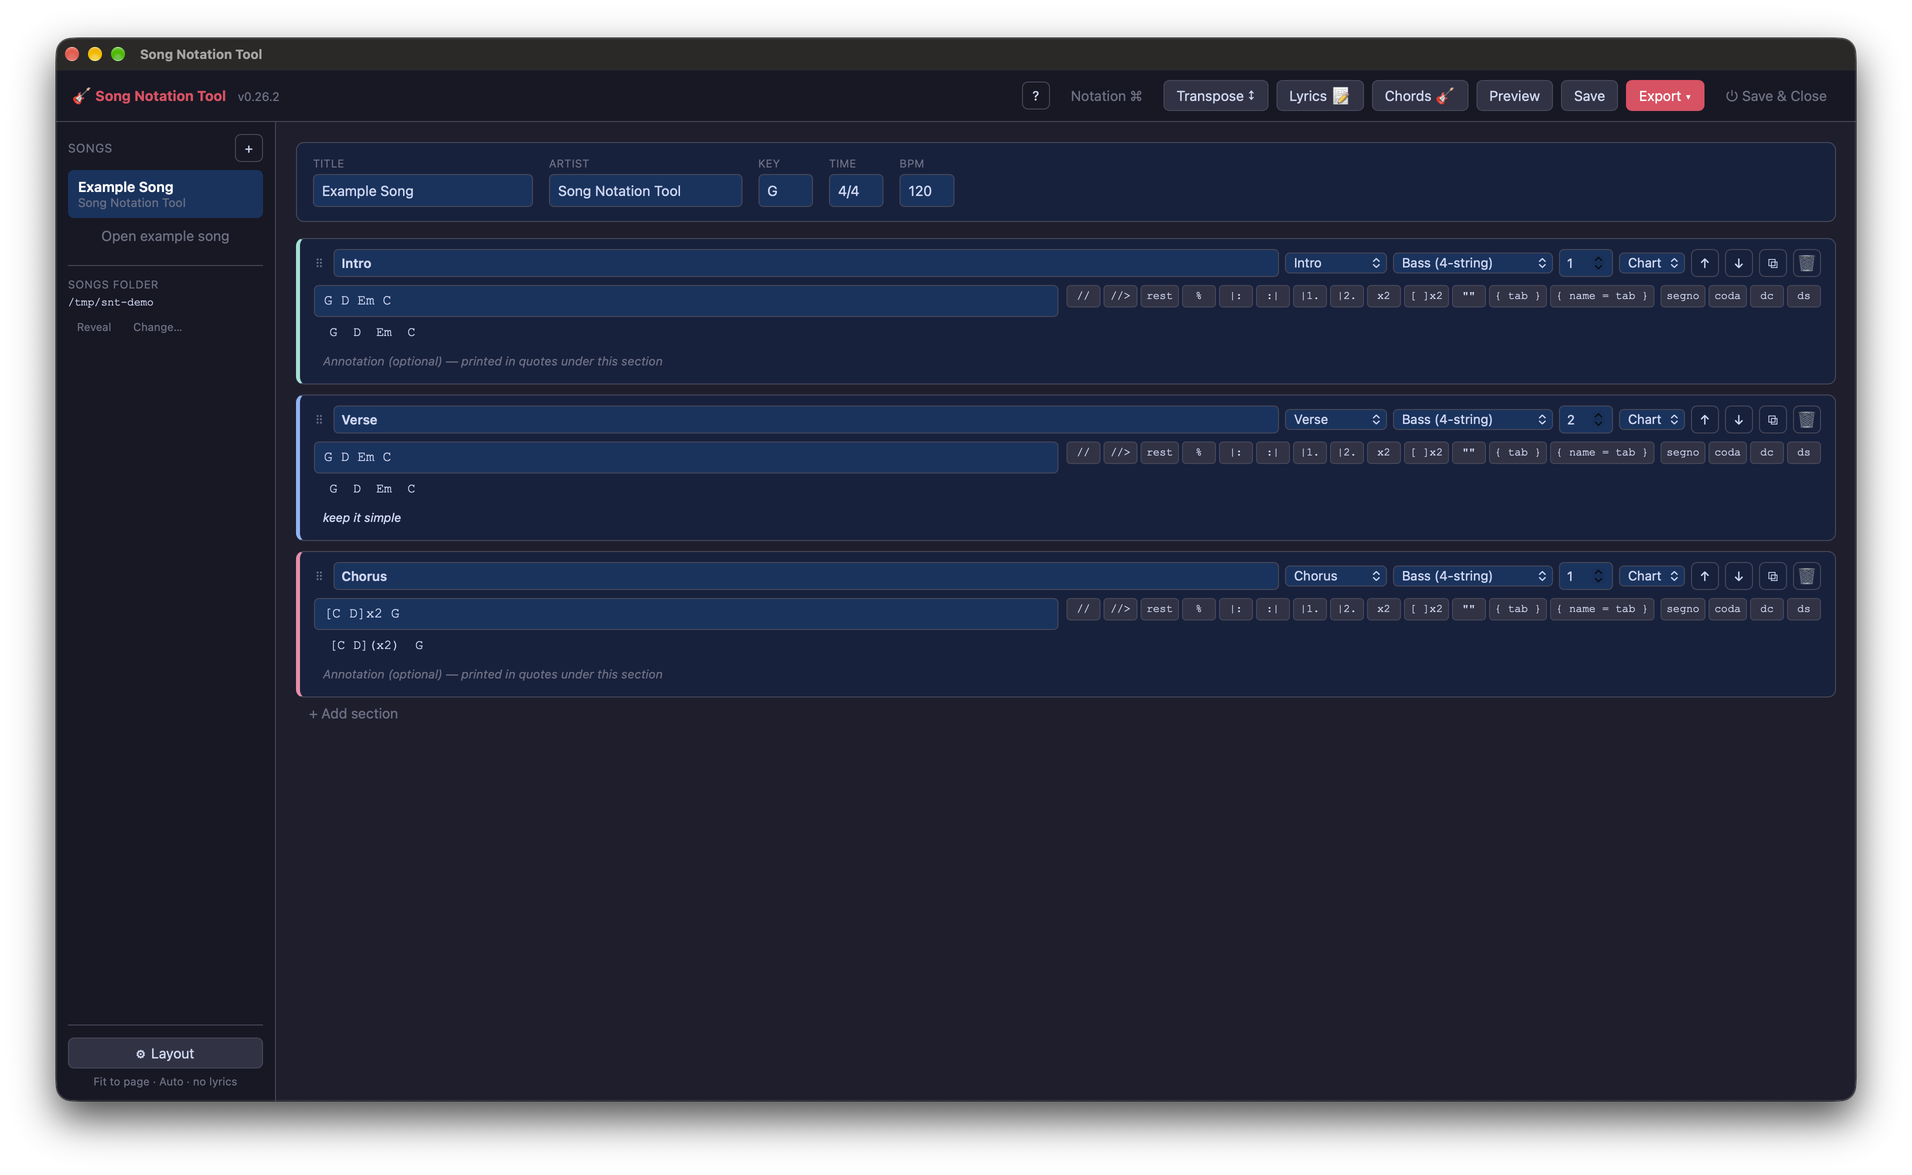
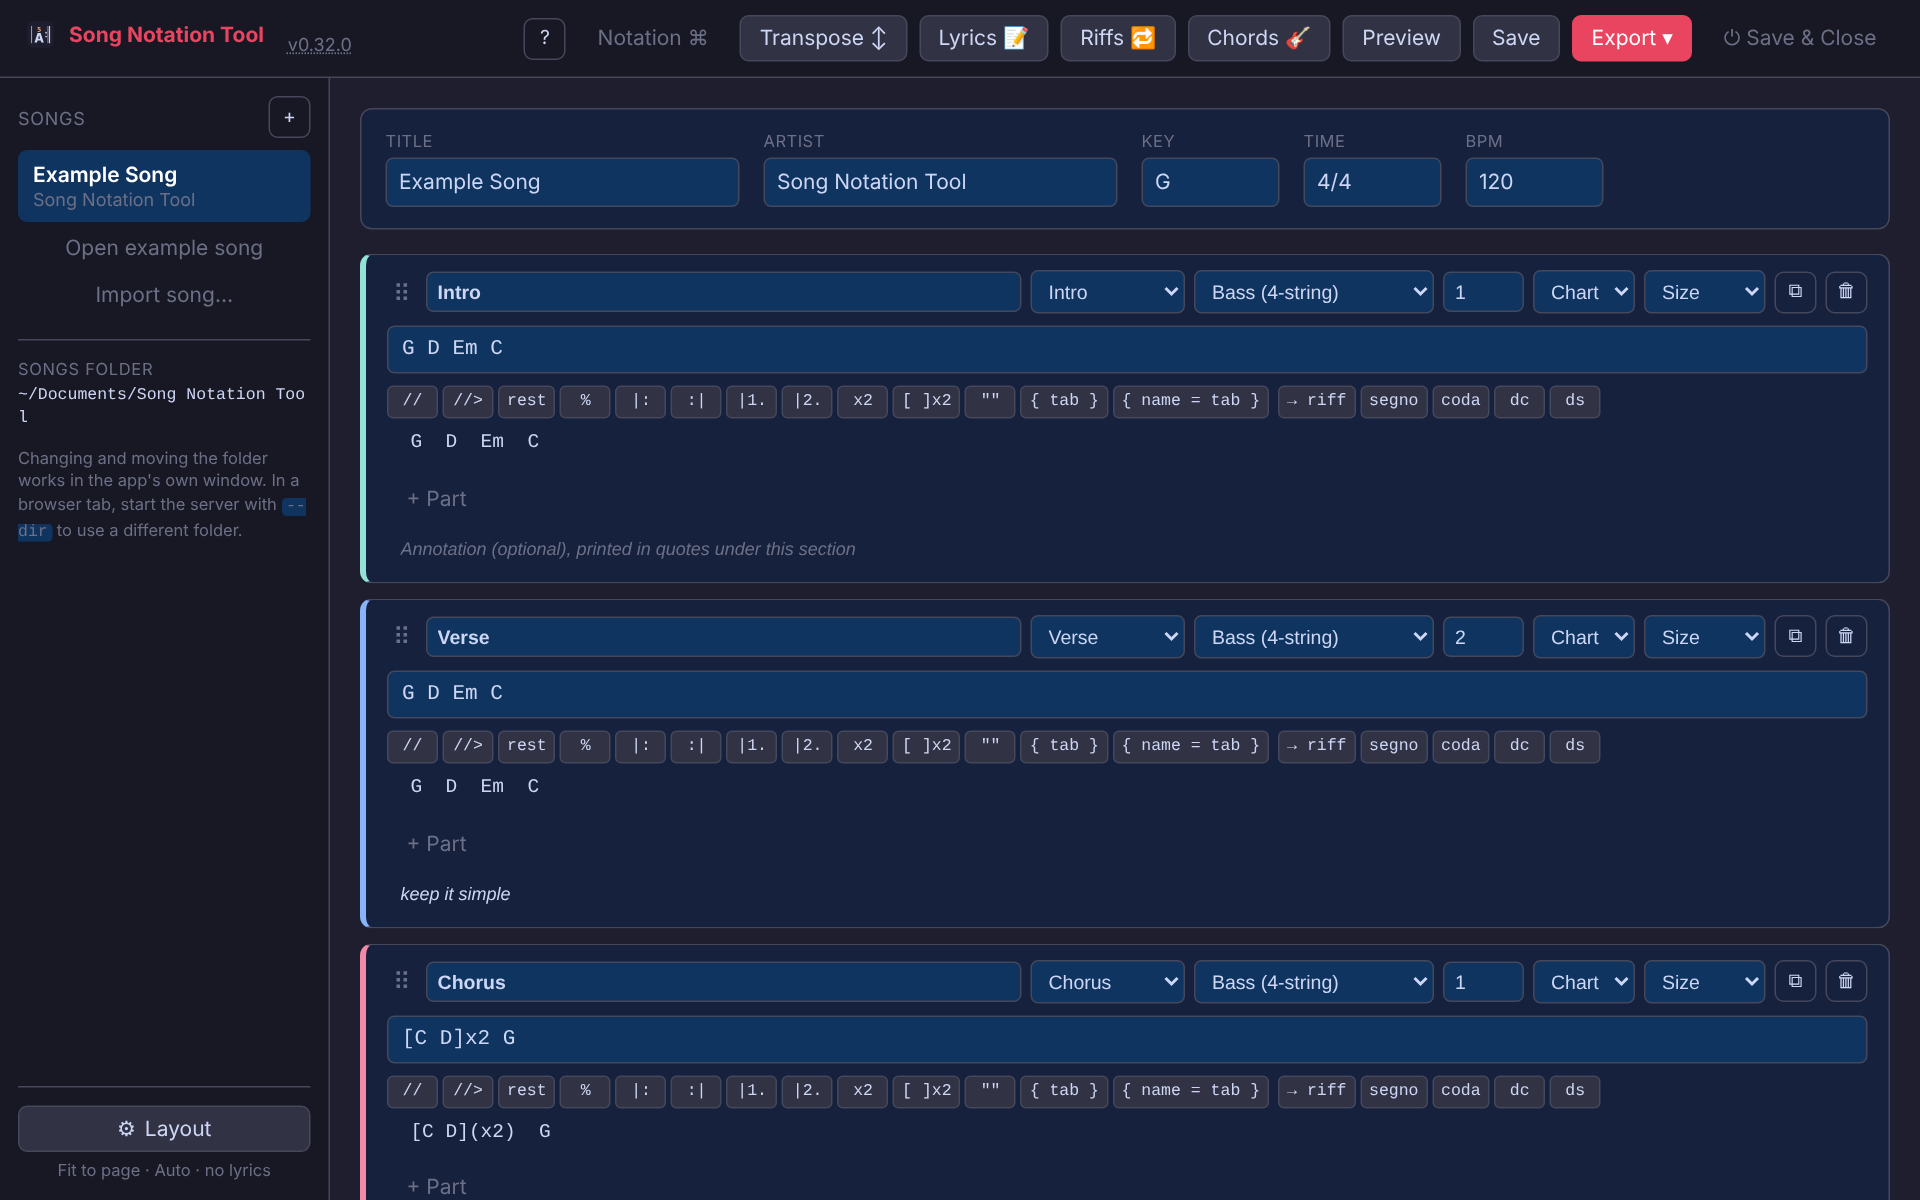
docs: screenshots for v0.32.0
All ten README pictures retaken with tools/shots.py, two of them new: the Copy to list and a section halfway through a drag.

Claude-Session: https://claude.ai/code/session_01C97HwmFBFNRj9cX7Fisfgq

diff --git a/README.md b/README.md
@@ -172,13 +172,14 @@ Getting around
 ## Screenshots
 
 The editor: songs on the left, one card per section. Type the chart line
-and the rendered chart appears under it. The buttons beside each line
+and the rendered chart appears under it. The buttons under each line
 insert notation at the cursor.
 
 ![The editor, with the example song open](screenshots/editor.png)
 
 <table>
 <tr><td width="50%" valign="top"><a href="screenshots/start-here.png"><img src="screenshots/start-here.png" alt="Start here"></a><br><b>Start here</b>: a new or returning user sees New song and Open example instead of an empty grid.</td><td width="50%" valign="top"><a href="screenshots/layout-panel.png"><img src="screenshots/layout-panel.png" alt="⚙ Layout"></a><br><b>⚙ Layout</b>: every print setting in one panel at the bottom left (size, columns, colour, section names, lyrics, licks, chord shapes).</td></tr>
+<tr><td width="50%" valign="top"><a href="screenshots/section-copy.png"><img src="screenshots/section-copy.png" alt="Copy to"></a><br><b>⧉ Copy to…</b>: pick where the copy of a section goes. The copy is a reference, so it plays whatever the original holds.</td><td width="50%" valign="top"><a href="screenshots/section-drag.png"><img src="screenshots/section-drag.png" alt="Moving a section"></a><br><b>Moving a section</b>: drag it by its ⠿ handle. While you drag, every card folds down to its name, so the whole song fits on screen.</td></tr>
 <tr><td width="50%" valign="top"><a href="screenshots/lyrics-dialog.png"><img src="screenshots/lyrics-dialog.png" alt="Lyrics"></a><br><b>Lyrics</b>: paste or import the words, drag a section's chip into the sheet where its words begin, then <b>Split by markers</b>.</td><td width="50%" valign="top"><a href="screenshots/chord-shapes.png"><img src="screenshots/chord-shapes.png" alt="Chord shapes"></a><br><b>Chord shapes</b>: voicings typed as <code>x32010</code> and checked against the chords the chart plays. <b>+ From chart</b> adds the missing ones.</td></tr>
 <tr><td width="50%" valign="top"><a href="screenshots/notation-reference.png"><img src="screenshots/notation-reference.png" alt="Notation reference"></a><br><b>Notation reference</b>: everything you can type on a chart line, with examples checked against the real parser.</td><td width="50%" valign="top"><a href="screenshots/help-strip.png"><img src="screenshots/help-strip.png" alt="How this works"></a><br><b>How this works</b>: the ideas behind the chart line, one line each.</td></tr>
 <tr><td width="50%" valign="top"><a href="screenshots/export-menu.png"><img src="screenshots/export-menu.png" alt="Export"></a><br><b>Export</b>: TXT, PDF in portrait or landscape, or the system print dialog.</td><td width="50%"></td></tr>

diff --git a/WORKPLAN.md b/WORKPLAN.md
@@ -17,7 +17,9 @@ and git hold the history.
   browser and the native window. Not yet merged, tagged or pushed. The
   drag and the picker were tried in Chromium with Playwright; the native
   window on the Mac is giopas's check (below). Proposed release title:
-  `v0.32.0 (Drag and copy sections)`.
+  `v0.32.0 (Drag and copy sections)`. The screenshots are retaken with
+  the new `tools/shots.py` (in Chromium on Linux; a run on the Mac will
+  show small font differences the first time).
 - Released: v0.31.2, tagged on 13 October 2026: the floor sheet on one
   page. v0.31.0 did not build on Windows (a test of
   `tools/ground_truth.py` deleted read-only git files), fixed in v0.31.1.
@@ -32,7 +34,7 @@ and git hold the history.
 - Every release from v0.26.3 on has its GitHub release.
 - **Update and restart** is confirmed on the Mac (v0.29.0 to v0.29.1, on
   10 October).
-- Test suite: 521 tests, all passing (`python3 -m pytest -q`).
+- Test suite: 523 tests, all passing (`python3 -m pytest -q`).
 
 ## What is left
 
@@ -153,6 +155,7 @@ and readable on stage without the handwritten sheet.
 | 13 Oct 2026 | A floor sheet: Size "Floor" prints the largest type that fits on one page (changed from two the same day), portrait or landscape, whichever is bigger; tab at about half size; a slim title (title, artist, key) and small section names. Each section can also be Smaller or Larger than the song. (giopas, 13 October.) |
 | 13 Oct 2026 | Floor may use two columns when a long song gets clearly bigger type that way; a short song keeps one column across the full width. Tab never below 75%. (Proposed by Claude while building it; giopas to confirm.) |
 | 8 Nov 2026 | Sections move by dragging their ⠿ handle (arrow keys on the handle from the keyboard); the ↑ ↓ buttons are gone. ⧉ asks where the copy goes and the copy stays a reference. Browser and native window only; the Tkinter app keeps its own drag and Ctrl/Cmd+D. (giopas, 8 November.) |
+| 8 Nov 2026 | The README screenshots are retaken before every release with `tools/shots.py` (borrowed from Swiss Knife), and the pictures are committed with the release. (giopas, 8 November.) |
 | 8 Oct 2026 | Claude has no role inside the app. It builds and checks the code only. |
 | 8 Oct 2026 | Test data uses invented band, song and lyric names. The author's own songs stay out of the repository. |
 

diff --git a/CHANGELOG.md b/CHANGELOG.md
@@ -29,6 +29,18 @@ a section where you want it, and a copy asks where it should go.
   so Enter does what the button used to do. Escape, Cancel or a click
   outside closes it. The copy is still a reference to the original.
 
+- `tools/shots.py` retakes every README screenshot in one command, on a
+  scratch songs folder with the example song, then says which pictures
+  changed and writes a contact sheet. The release checklist in
+  `DEVELOPMENT.md` now runs it before every release.
+
+### Changed
+
+- The README screenshots are retaken for this version, with two new ones:
+  the "Copy to…" list and a section halfway through a drag. They are page
+  pictures at 1920 × 1200 instead of window captures, and the old ones
+  still showed v0.26.2.
+
 ### Removed
 
 - The ↑ and ↓ buttons on each section card. Dragging and the arrow keys
